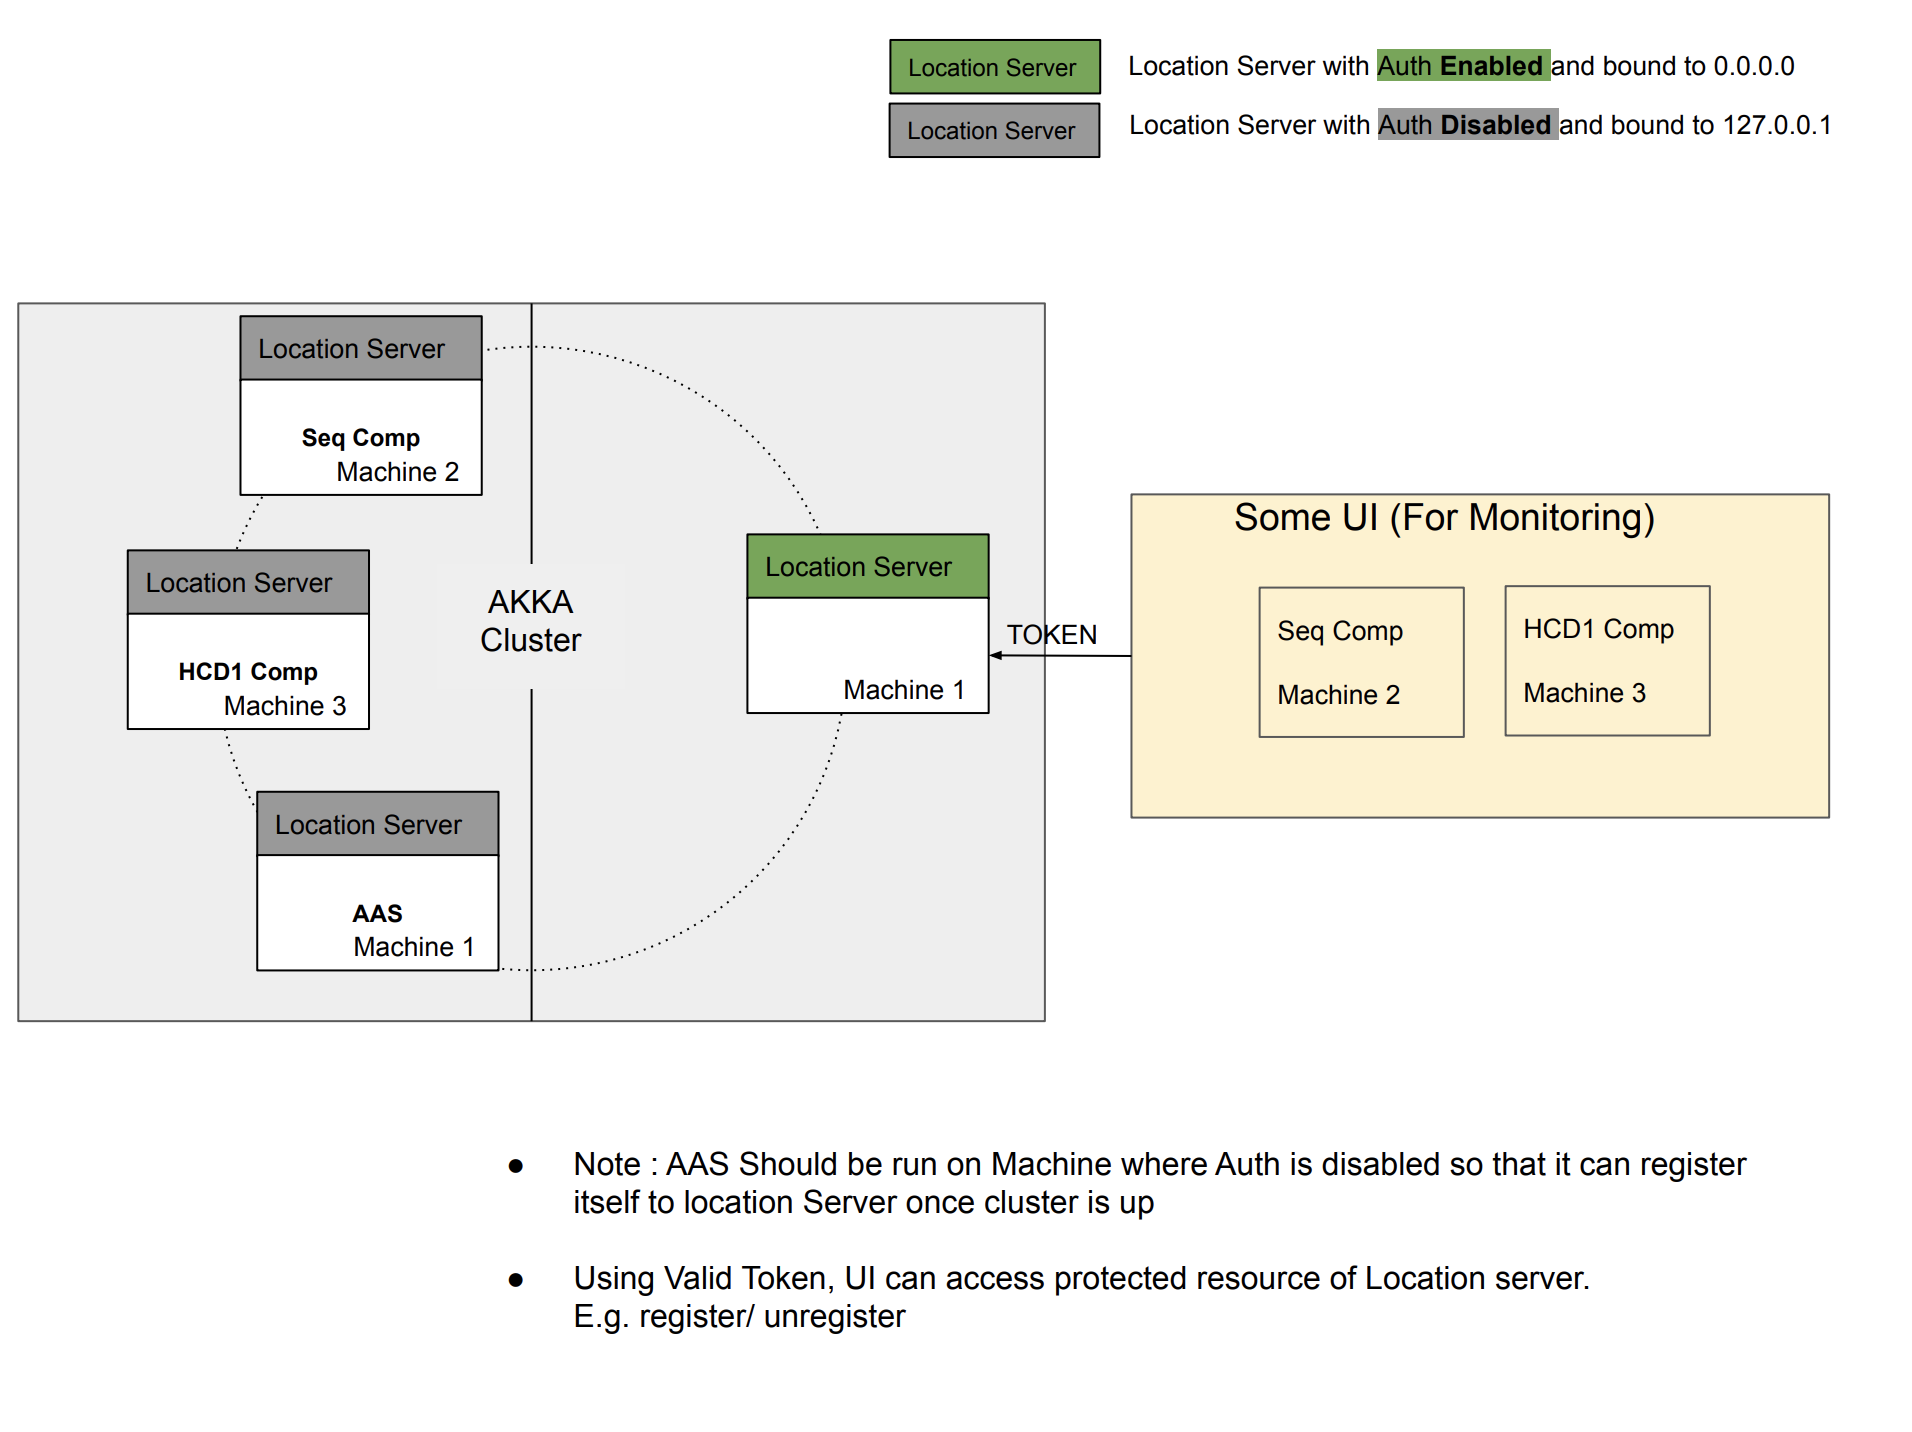
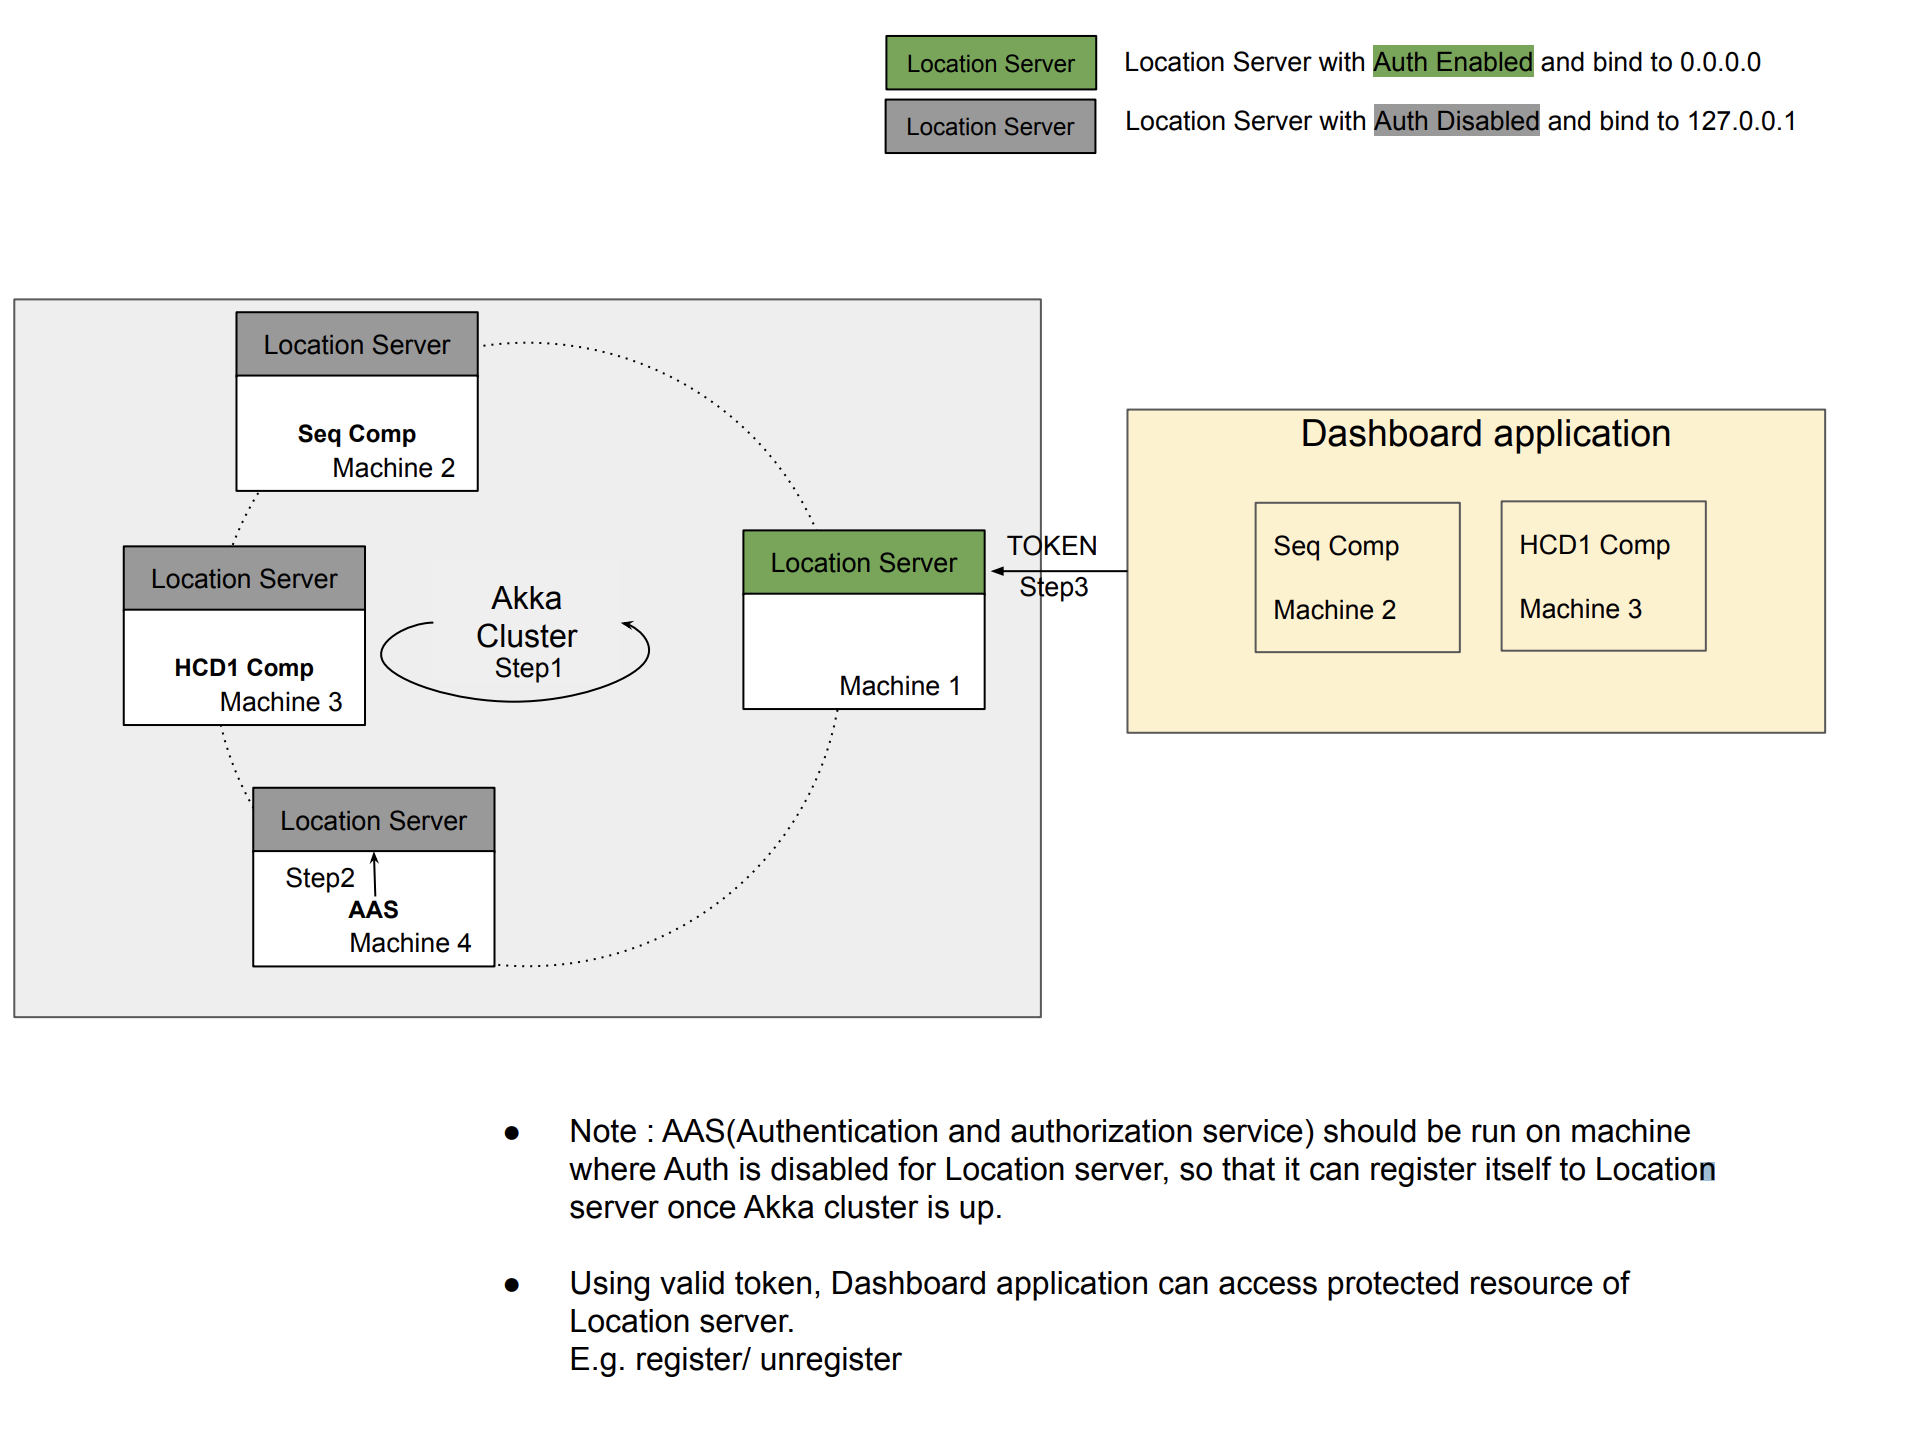
#000: Himanshu: Update documentation for location Server - auth : minor changes in diagram and wording.

diff --git a/docs/src/main/technical/location/location-server.md b/docs/src/main/technical/location/location-server.md
@@ -135,24 +135,22 @@ Note : `Outside` below means any machine not present in this Akka cluster.
 
 Below diagram illustrate how Akka cluster will look when authentication and authorization is enabled in `Location Server`. 
 By default when you start `Location Server`, it will start in local-only mode (Authentication and authorization
- Disabled) and bound to `127.0.0.1`.
-To start `Location Server` in public mode (Authentication and authorization enabled) and bound to `0.0.0.0`, use
+ Disabled) and bind to `127.0.0.1`.
+To start `Location Server` in public mode (Authentication and authorization enabled) and bind to `0.0.0.0`, use
  `--publicNetwork` command line
  option when @ref:[starting location server](../../apps/cswlocationserver.md)
  
 ![Location Authentication and Authorization](../../images/locationservice/location-service-auth.png)
 
-Why is this needed:
+Why is this needed ?
 
-1. As `Location Server` is by default bound to `127.0.0.1`, any application cannot establish Http connection from
+1. As `Location Server` is by default bind to `127.0.0.1`, no application can establish Http connection from
  `Outside`.
-2. In production environment, you may need a capability to access protected resources of Location Server and provide
+2. In production environment, you may need a capability to access protected resources of `Location Server` and provide
  Authentication and Authorization for such resources. E.g. ability to register/unregister components(which has to
   undergo maintenance) from a system operator machine present `Outside`. 
 3. To enable this we need to bind few instances of `Location Server` to `0.0.0.0`, so that `Outside` Http connections
- can be established to it.
-4. For such `Location Server` instances, we have added authentication and authorization so that, applications with valid token can only
- access these protected resources.
+ can be made and applications with valid token, can access its protected resources.
    
 
 ## Internals
